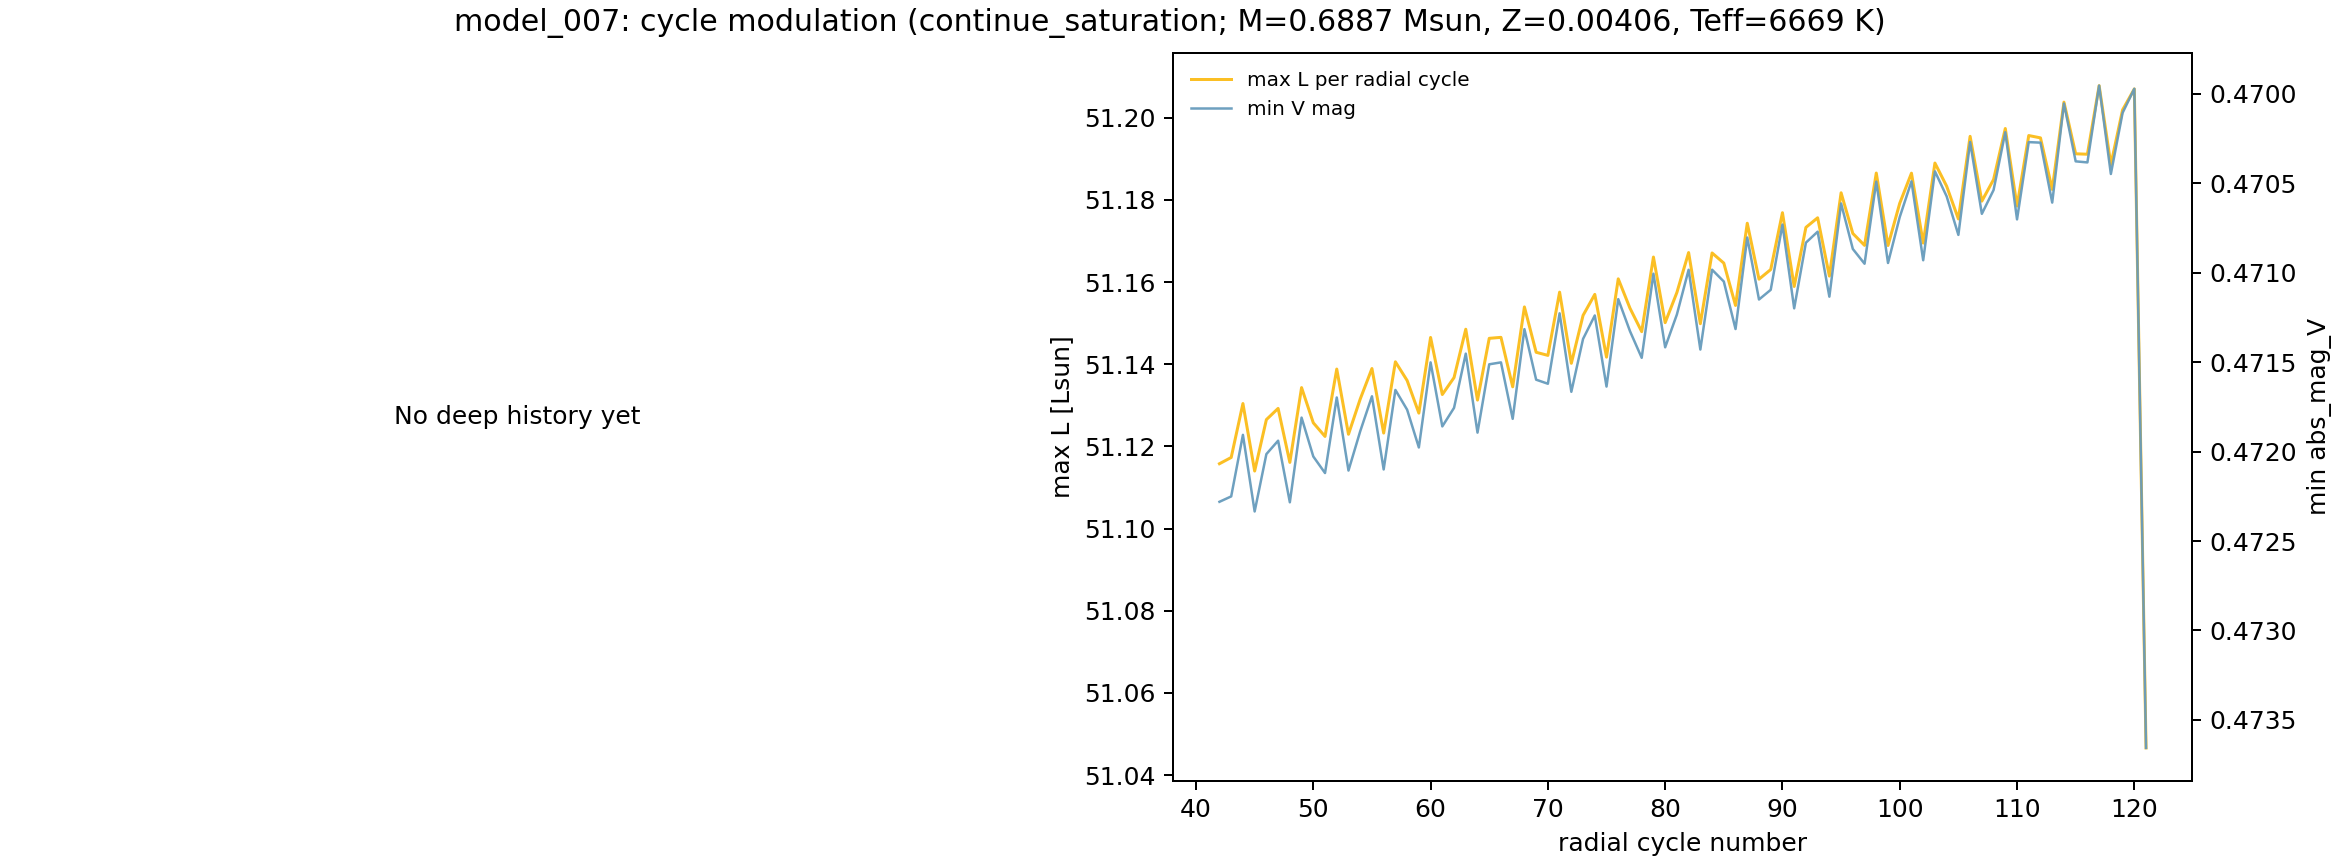
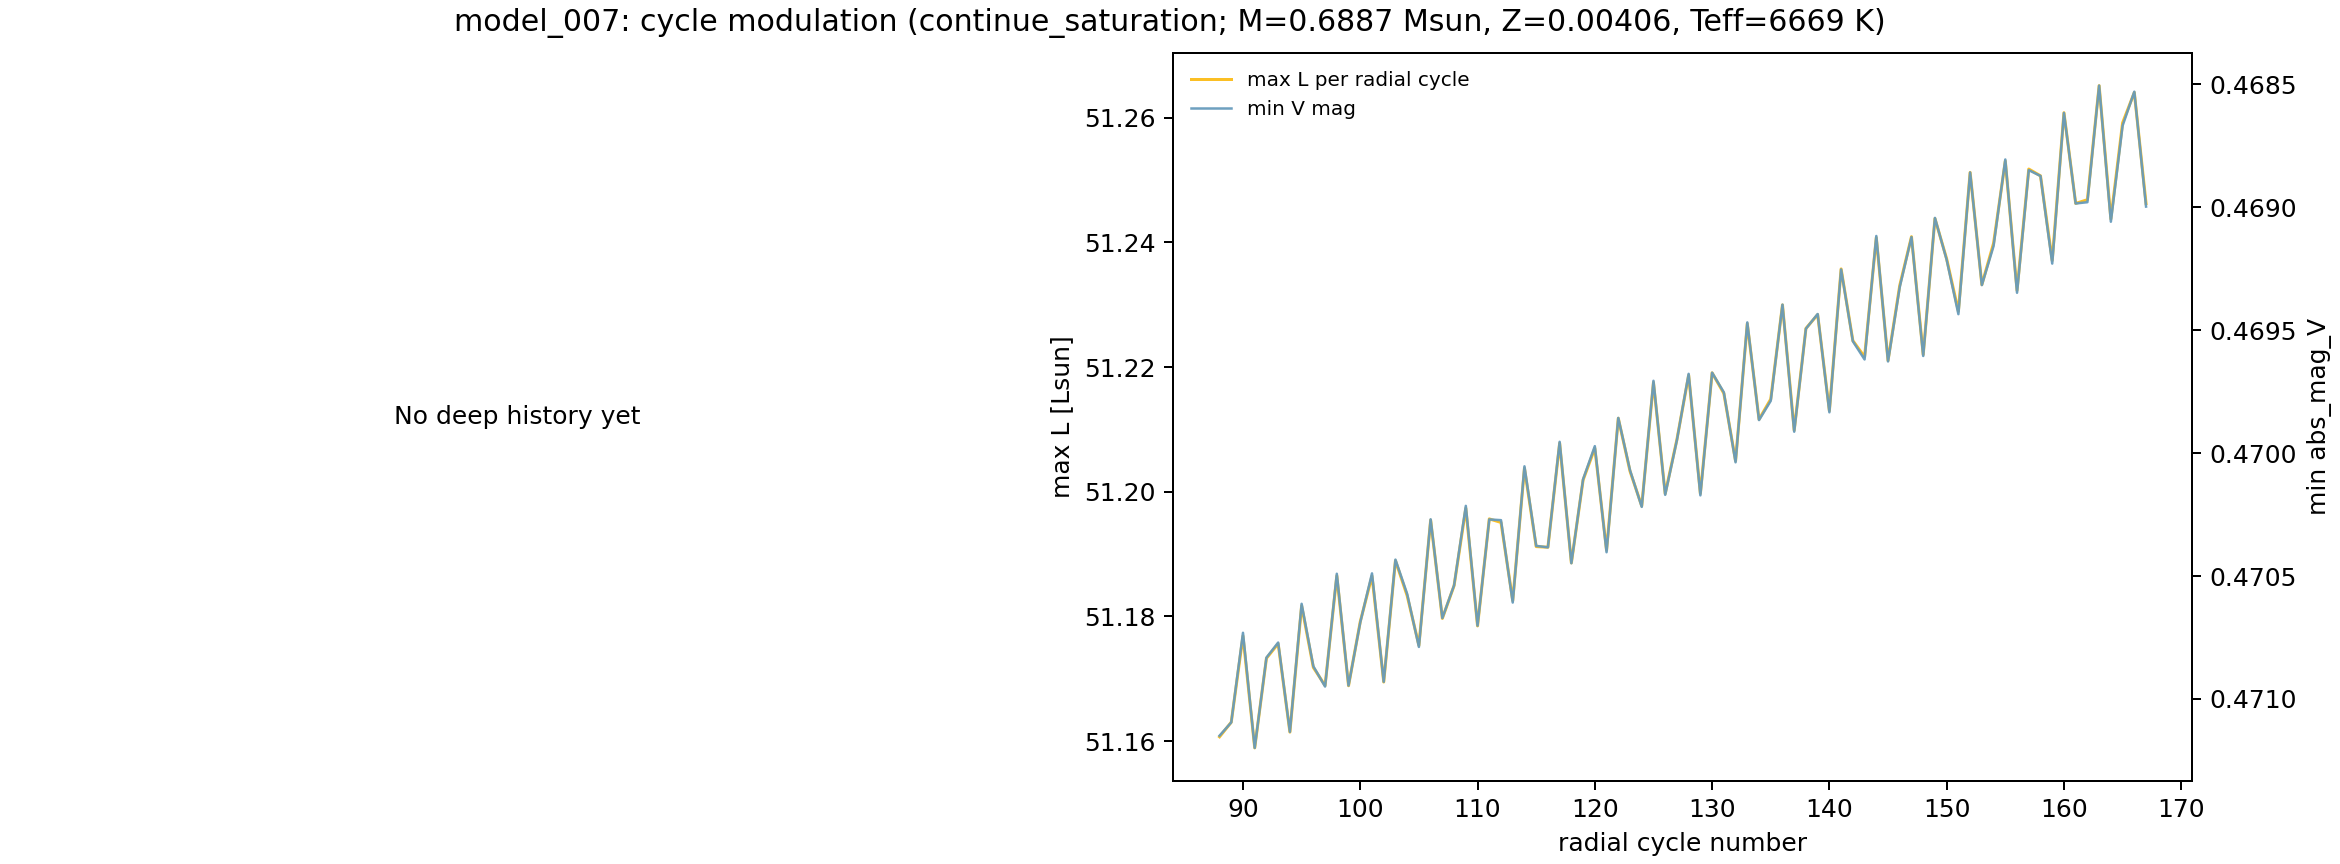
Refresh batch status snapshot

diff --git a/site/index.html b/site/index.html
@@ -46,7 +46,7 @@
   <header>
     <h1>Kappa</h1>
     <p class="dek">RR Lyrae RSP animations for following pressure-volume work, gas heating, ionization structure, radius, temperature, luminosity, and radial velocity through pulsation phase.</p>
-    <p class="meta">Generated 2026-06-17T04:31:22+00:00. Completed GIFs: 4/10. Verified: 4/10.</p>
+    <p class="meta">Generated 2026-06-17T04:36:29+00:00. Completed GIFs: 4/10. Verified: 4/10.</p>
   </header>
   <main>
     <nav class="toolbar"><a href="metadata/live_status.json">live status</a> <a href="metadata/batch_audit_summary.json">audit</a> <a href="metadata/manifest.json">manifest</a> <a href="metadata/cycle_modulation_summary.json">cycle modulation</a> <a href="metadata/convergence_summary_last100.json">convergence</a> <a href="metadata/convergence_summary_last100.png">convergence plot</a> <a href="metadata/models.csv">models CSV</a></nav>
@@ -188,7 +188,7 @@
         <div class="media placeholder">queued</div>
         <div class="body">
           <p class="params">M=0.6887 M_sun &nbsp; Teff=6669 K &nbsp; L=50.79 L_sun &nbsp; Z=0.00406</p>
-          <p class="details">period 148 / 5000 | strict convergence pending | history_exact_rsp_columns | 155 cycles | Gamma ptp 0.00141 | P frac 0.0299 | DeltaR frac 0.336 </p>
+          <p class="details">period 173 / 5000 | strict convergence pending | history_exact_rsp_columns | 187 cycles | Gamma ptp 0.0014 | P frac 0.0297 | DeltaR frac 0.315 </p>
           <p class="links"><span class="muted">awaiting render</span></p>
         </div>
       </article>